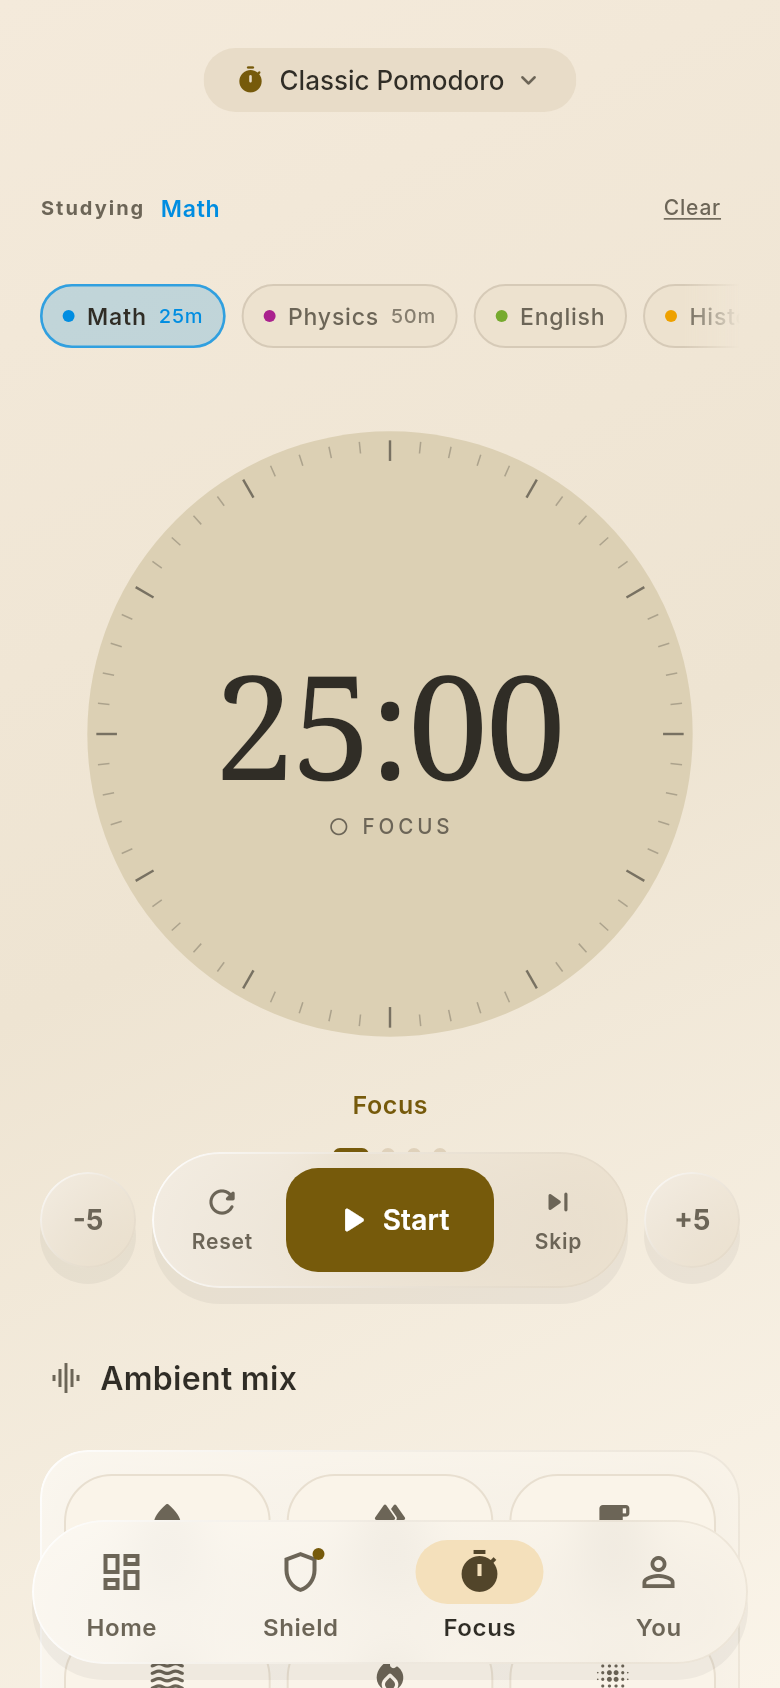
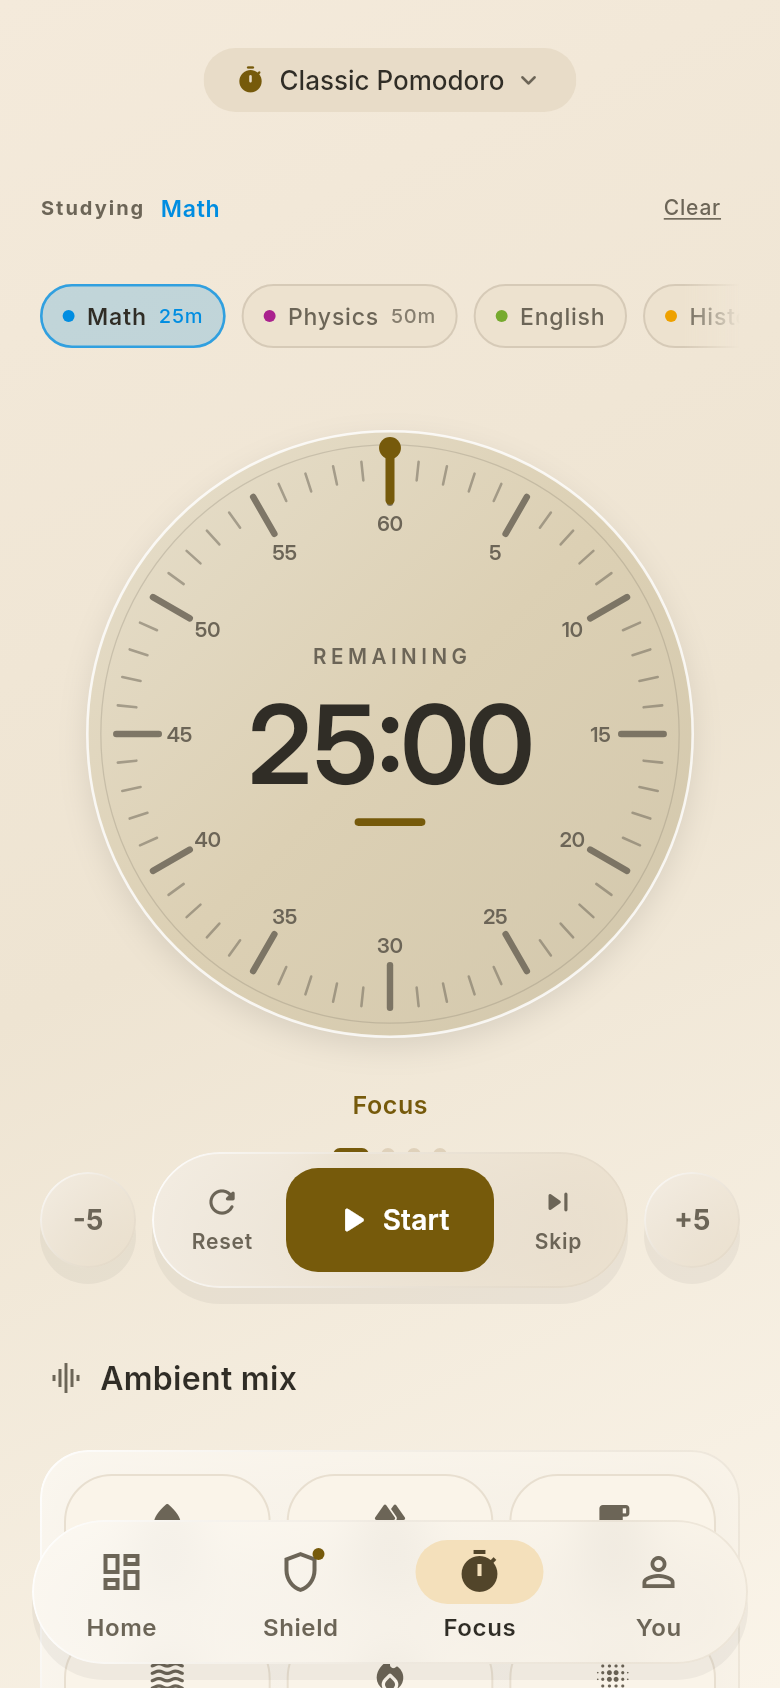
Restore previous app clock design and InterDisplay font

diff --git a/lib/features/focus/widgets/clock_faces.dart b/lib/features/focus/widgets/clock_faces.dart
@@ -51,7 +51,6 @@ class ClockDisplay extends StatelessWidget {
           accent: accent,
           size: height,
           progress: progress,
-          phaseLabel: phaseLabel,
         );
       case ClockFace.flip:
         return _FlipBoard(text: text, accent: accent, height: height);
@@ -881,19 +880,18 @@ class RetroClock extends StatelessWidget {
     required this.accent,
     required this.size,
     required this.progress,
-    this.phaseLabel = 'FOCUS',
   });
 
   final Duration remaining;
   final Color accent;
   final double size;
   final double progress;
-  final String phaseLabel;
 
   @override
   Widget build(BuildContext context) {
-    final cs = Theme.of(context).colorScheme;
-    final dark = Theme.of(context).brightness == Brightness.dark;
+    final theme = Theme.of(context);
+    final cs = theme.colorScheme;
+    final dark = theme.brightness == Brightness.dark;
     return SizedBox.square(
       dimension: size,
       child: CustomPaint(
@@ -901,54 +899,50 @@ class RetroClock extends StatelessWidget {
           progress: progress,
           accent: accent,
           ink: cs.onSurface,
-          surface: dark ? const Color(0xFF363630) : const Color(0xFFDCD0B4),
+          marks: cs.onSurfaceVariant,
+          surface: dark ? cs.surfaceContainer : const Color(0xFFDCD0B4),
           dark: dark,
         ),
         child: Center(
           child: Padding(
-            padding: EdgeInsets.symmetric(horizontal: size * .13),
+            padding: EdgeInsets.symmetric(horizontal: size * 0.14),
             child: Column(
               mainAxisSize: MainAxisSize.min,
               children: [
-                SizedBox(height: size * .025),
+                Text(
+                  'REMAINING',
+                  style: TextStyle(
+                    fontFamily: 'Inter',
+                    fontSize: size * 0.032,
+                    letterSpacing: size * 0.007,
+                    fontWeight: FontWeight.w600,
+                    color: cs.onSurfaceVariant,
+                  ),
+                ),
+                SizedBox(height: size * 0.022),
                 FittedBox(
                   fit: BoxFit.scaleDown,
                   child: Text(
                     formatClock(remaining),
                     style: TextStyle(
-                      fontFamily: 'FocusDial',
-                      fontSize: size * .225,
-                      height: 1.12,
-                      letterSpacing: -size * .005,
-                      fontWeight: FontWeight.w400,
+                      fontFamily: 'InterDisplay',
+                      fontSize: size * 0.17,
+                      height: 1.05,
+                      letterSpacing: -size * 0.008,
+                      fontWeight: FontWeight.w600,
                       color: cs.onSurface,
                       fontFeatures: const [FontFeature.tabularFigures()],
                     ),
                   ),
                 ),
-                SizedBox(height: size * .012),
-                Row(
-                  mainAxisSize: MainAxisSize.min,
-                  children: [
-                    Icon(
-                      phaseLabel == 'FOCUS'
-                          ? Icons.circle_outlined
-                          : Icons.coffee_outlined,
-                      size: size * .032,
-                      color: cs.onSurfaceVariant,
-                    ),
-                    SizedBox(width: size * .018),
-                    Text(
-                      phaseLabel,
-                      style: TextStyle(
-                        fontFamily: 'Inter',
-                        fontSize: size * .032,
-                        letterSpacing: size * .006,
-                        fontWeight: FontWeight.w500,
-                        color: cs.onSurfaceVariant,
-                      ),
-                    ),
-                  ],
+                SizedBox(height: size * 0.028),
+                Container(
+                  width: size * 0.11,
+                  height: size * 0.012,
+                  decoration: BoxDecoration(
+                    color: accent,
+                    borderRadius: BorderRadius.circular(8),
+                  ),
                 ),
               ],
             ),
@@ -959,47 +953,120 @@ class RetroClock extends StatelessWidget {
   }
 }
 
-/// The reference dial is flat, with fine tick marks rather than numbered hours.
 class _RetroDialPainter extends CustomPainter {
   const _RetroDialPainter({
     required this.progress,
     required this.accent,
     required this.ink,
+    required this.marks,
     required this.surface,
     required this.dark,
   });
+
   final double progress;
   final Color accent;
   final Color ink;
+  final Color marks;
   final Color surface;
   final bool dark;
 
   @override
   void paint(Canvas canvas, Size size) {
     final s = size.shortestSide;
-    final c = size.center(Offset.zero);
-    final radius = s * .47;
-    canvas.drawCircle(c, radius, Paint()..color = surface);
-    final tick = Paint()..strokeCap = StrokeCap.butt;
+    final c = Offset(size.width / 2, size.height / 2);
+    final radius = s * 0.47;
+    final rect = Rect.fromCircle(center: c, radius: radius);
+    canvas.drawCircle(
+      c + Offset(0, s * 0.016),
+      radius,
+      Paint()
+        ..color = Colors.black.withValues(alpha: dark ? 0.25 : 0.10)
+        ..maskFilter = MaskFilter.blur(BlurStyle.normal, s * 0.024),
+    );
+    canvas.drawCircle(
+      c,
+      radius,
+      Paint()
+        ..shader = LinearGradient(
+          begin: Alignment.topLeft,
+          end: Alignment.bottomRight,
+          colors: [
+            Color.lerp(surface, Colors.white, dark ? 0.055 : 0.32)!,
+            surface,
+            Color.lerp(surface, Colors.black, dark ? 0.12 : 0.045)!,
+          ],
+        ).createShader(rect),
+    );
+    canvas.drawCircle(
+      c,
+      radius,
+      Paint()
+        ..style = PaintingStyle.stroke
+        ..strokeWidth = s * 0.004
+        ..color = Colors.white.withValues(alpha: dark ? 0.16 : 0.8),
+    );
+    canvas.drawCircle(
+      c,
+      radius - s * 0.021,
+      Paint()
+        ..style = PaintingStyle.stroke
+        ..strokeWidth = s * 0.002
+        ..color = marks.withValues(alpha: 0.22),
+    );
     final p = progress.clamp(0.0, 1.0);
+    final tick = Paint()..strokeCap = StrokeCap.round;
     for (var i = 0; i < 60; i++) {
       final major = i % 5 == 0;
-      final direction = Offset(
-        math.cos(i * math.pi / 30 - math.pi / 2),
-        math.sin(i * math.pi / 30 - math.pi / 2),
-      );
-      final outer = radius - s * .014;
-      final inner = outer - s * (major ? .032 : .018);
+      final angle = i * math.pi / 30 - math.pi / 2;
+      final direction = Offset(math.cos(angle), math.sin(angle));
+      final outer = radius - s * 0.045;
+      final inner = outer - s * (major ? 0.066 : 0.029);
       canvas.drawLine(
         c + direction * inner,
         c + direction * outer,
         tick
-          ..strokeWidth = s * (major ? .0038 : .0024)
+          ..strokeWidth = s * (major ? 0.010 : 0.004)
           ..color = i / 60 < p
-              ? accent.withValues(alpha: .65)
-              : ink.withValues(alpha: major ? .58 : .28),
+              ? accent.withValues(alpha: 0.45)
+              : marks.withValues(alpha: major ? 0.85 : 0.52),
       );
+      if (major) {
+        final label = i == 0 ? '60' : '$i';
+        final painter = TextPainter(
+          text: TextSpan(
+            text: label,
+            style: TextStyle(
+              fontFamily: 'InterDisplay',
+              fontSize: s * 0.032,
+              fontWeight: FontWeight.w600,
+              color: marks,
+            ),
+          ),
+          textDirection: TextDirection.ltr,
+        )..layout();
+        final at = c + direction * (radius - s * 0.143);
+        painter.paint(
+          canvas,
+          at - Offset(painter.width / 2, painter.height / 2),
+        );
+        painter.dispose();
+      }
     }
+    final handAngle = p * 2 * math.pi - math.pi / 2;
+    final direction = Offset(math.cos(handAngle), math.sin(handAngle));
+    canvas.drawLine(
+      c + direction * (radius - s * 0.107),
+      c + direction * (radius - s * 0.024),
+      Paint()
+        ..color = accent
+        ..strokeWidth = s * 0.014
+        ..strokeCap = StrokeCap.round,
+    );
+    canvas.drawCircle(
+      c + direction * (radius - s * 0.026),
+      s * 0.017,
+      Paint()..color = accent,
+    );
   }
 
   @override
@@ -1007,6 +1074,7 @@ class _RetroDialPainter extends CustomPainter {
       old.progress != progress ||
       old.accent != accent ||
       old.ink != ink ||
+      old.marks != marks ||
       old.surface != surface ||
       old.dark != dark;
 }

diff --git a/test/clock_faces_test.dart b/test/clock_faces_test.dart
@@ -84,7 +84,7 @@ void main() {
     const remaining = Duration(minutes: 24, seconds: 51);
 
     testWidgets(
-      'retro displays the engine time and current phase with bundled serif figures',
+      'retro restores the engine time with the original InterDisplay figures',
       (tester) async {
         await tester.pumpWidget(
           wrap(
@@ -99,10 +99,10 @@ void main() {
         );
         await tester.pumpAndSettle();
         expect(find.text('24:51'), findsOneWidget);
-        expect(find.text('BREAK'), findsOneWidget);
-        expect(find.text('REMAINING'), findsNothing);
+        expect(find.text('BREAK'), findsNothing);
+        expect(find.text('REMAINING'), findsOneWidget);
         final text = tester.widget<Text>(find.text('24:51'));
-        expect(text.style?.fontFamily, 'FocusDial');
+        expect(text.style?.fontFamily, 'InterDisplay');
         expect(tester.takeException(), isNull);
       },
     );

diff --git a/docs/design/refinement/README.md b/docs/design/refinement/README.md
@@ -115,3 +115,16 @@ been proven. Dial fill is sampled from the video at #DCD0B4, with Day backdrop
 
 Validation: 222 Flutter tests passed; phone/tablet day/dark captures regenerated.
 Native launcher runtime still requires a real-device check.
+
+
+## Clock restoration — 1.0.3 build 2014
+
+At the owner’s request, restored the app dial from before build 2013: bundled
+InterDisplay countdown, numbered minute marks, shaded rim and progress hand.
+The launcher widgets keep their build 2013 design, subject and daily-goal data.
+The clean login is retained. The README still contains exactly four screenshots;
+its Focus screenshot now shows the restored app clock.
+
+Validation: clock/widget/login tests, static analysis and regenerated day/dark
+captures passed. The release APK has Android v2/v3 signatures, build 2014 and
+package dev.focusforge.focusforge. Native launcher behavior needs a phone check.

diff --git a/README.md b/README.md
@@ -35,7 +35,7 @@ A study companion that protects your attention and makes your progress visible.
 shield them only while you focus. Filter YouTube Shorts and feeds while keeping
 lecture links available.
 
-**Make the clock yours.** A flat tan countdown dial with bundled serif numerals, warm ivory Day mode,
+**Make the clock yours.** A shaded tan countdown dial with the original InterDisplay numerals, warm ivory Day mode,
 charcoal Dark mode and frosted cards give studying a quieter workspace.
 Choose a clock face and palette in You. Add one of three Android widgets from
 your launcher's Widgets menu: **Retro clock** for the countdown and subject,

diff --git a/CHANGELOG.md b/CHANGELOG.md
@@ -2,7 +2,11 @@
 
 ## 1.0.3 — 2026-10-10
 
-Android build 2011.
+Android build 2014.
+
+- Restored the original InterDisplay clock, numbered minute marks, shaded rim
+  and progress hand in the app. Retained the improved launcher widgets and
+  clean sign-in screen.
 
 ### Added
 
